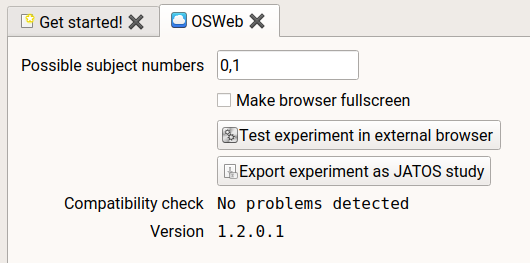
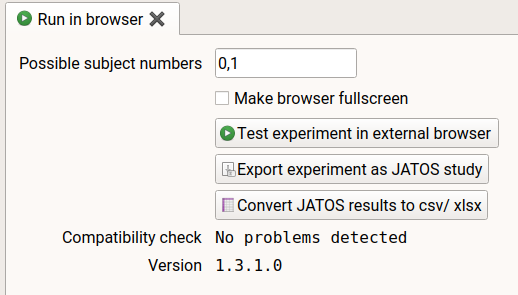
Update OSWeb docs

Changed region(s): [[0.0, 0.0, 1.0, 1.0]]

diff --git a/content/pages/manual/osweb.md b/content/pages/manual/osweb.md
@@ -34,7 +34,7 @@ figure:
 
 - In OpenSesame, open the OSWeb extension (Menu → Tools → OSWeb).
 - The extension will perform a simple (and incomplete) check to see if your experiment appears to be compatible with OSWeb.
-- If no problems are detected, click 'Test experiment in external browser'.
+- If no problems are detected, click 'Test experiment in external browser', or click on the corresponding button in the main toolbar.
 - This will open the experiment in your default browser so that you can check if the experiment runs as expected (%FigTestRun).
 - As of OSWeb 1.3, you can also click the 'Run in browser' button in the main toolbar (Alt+Ctrl+W)
 
@@ -92,11 +92,9 @@ if (vars.subject_nr % 2 == 0) {
 
 ### Upgrading OSWeb
 
-OSWeb is under active development. If you want to make sure that you're running the latest version, you can upgrade the OSWeb extension by running the command below in the OpenSesame debug window. This may require you to run OpenSesame as administrator on Windows.
+OSWeb is under active development. If you want to make sure that you're running the latest version, you can upgrade the OSWeb extension, which is called `opensesame-extension-osweb`, as described here:
 
-~~~
-!pip install opensesame-extension-osweb --upgrade
-~~~
+- %link:environment%
 
 
 ### Supported browsers
@@ -159,6 +157,26 @@ figure:
  source: jatos-3.png
  caption: Once the experiment has been successfully imported in JATOS, it appears in the list of experiments.
 --%
+
+
+## Downloading and converting data
+
+If you have collected data with OSWeb through JATOS, you can download this data in JATOS by navigating to your experiment, clicking on Results, and then selecting Export Results → All (see %FigJatosExportResults).
+
+
+%--
+figure:
+ id: FigJatosExportResults
+ source: jatos-export-results.png
+ caption: Exporting results collecting with OSWeb through JATOS.
+--%
+
+
+The 'Convert JATOS results to csv/ xlsx' option is available as of OSWeb 1.3.1
+{: .page-notification}
+
+You will then download a file that has a name similar to `jatos_results_20190429113807.txt`. This file contains mostly JSON data, but may also contain fragments of data that render the file invalid as a regular JSON string. However, you can easily convert the data to a `.csv` or `.xlsx` file with 'Convert JATOS results to csv/ xlsx' option in the OSWeb extension (see %FigOSWebExtension).
+
 
 ## Video tutorial
 
